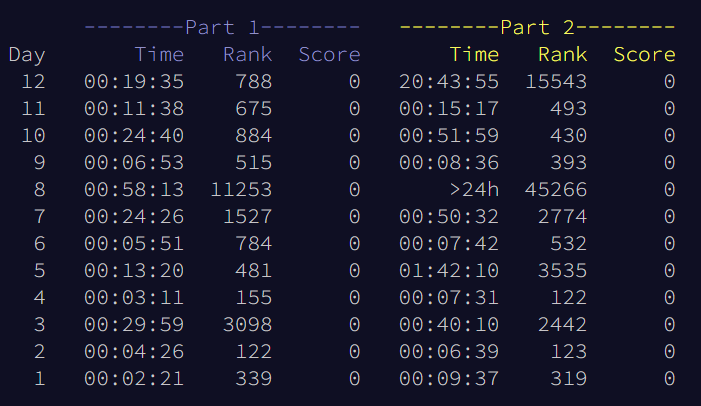
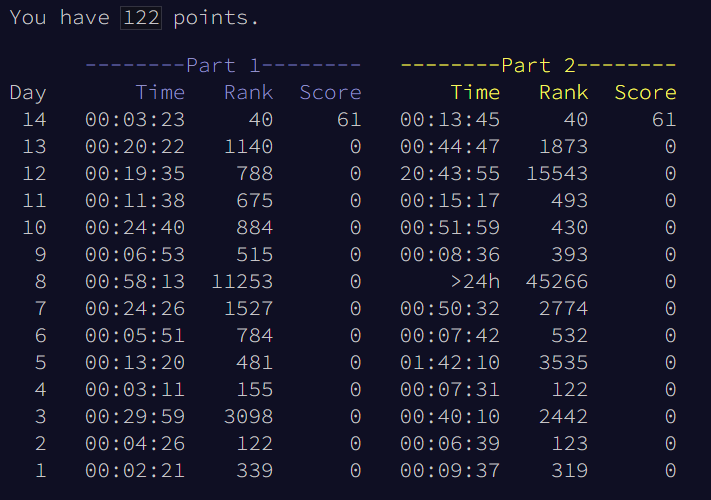
day14 TOP 50 on both parts!!!

diff --git a/Day14/day14b.py b/Day14/day14b.py
@@ -1,0 +1,88 @@
+import util
+
+def roll_north(grid):
+    done = False
+    while not done:
+        done = True
+        for y in range(1, len(grid)):
+            for x, tile in enumerate(grid[y]):
+                if tile == 'O' and grid[y - 1][x] == '.':
+                    grid[y - 1][x] = 'O'
+                    grid[y][x] = '.'
+                    done = False
+
+def roll_south(grid):
+    done = False
+    while not done:
+        done = True
+        for y in range(len(grid) - 2, -1, -1):
+            for x, tile in enumerate(grid[y]):
+                if tile == 'O' and grid[y + 1][x] == '.':
+                    grid[y + 1][x] = 'O'
+                    grid[y][x] = '.'
+                    done = False
+
+def roll_west(grid):
+    done = False
+    while not done:
+        done = True
+        for row in grid:
+            for x, tile in enumerate(row[1:]):
+                if tile == 'O' and row[x + 1- 1] == '.':
+                    row[x + 1 - 1] = 'O'
+                    row[x + 1] = '.'
+                    done = False
+
+def roll_east(grid):
+    done = False
+    while not done:
+        done = True
+        for row in grid:
+            for x, tile in enumerate(row[:-1]):
+                if tile == 'O' and row[x + 1] == '.':
+                    row[x + 1] = 'O'
+                    row[x] = '.'
+                    done = False
+
+def cycle_grid(grid):
+    roll_north(grid)
+    roll_west(grid)
+    roll_south(grid)
+    roll_east(grid)
+
+def grid_to_str(grid):
+    return ''.join([''.join(row) for row in grid])
+
+def main():
+    with open("Day14/day14.txt") as f:
+        grid = [list(line.strip()) for line in f.readlines()]
+    util.print_grid(grid)
+
+    cache = {}
+
+    skip_val = 0
+    end_pt = 0
+    for i in range(0, 1000000000):
+        print(i)
+        cycle_grid(grid)
+
+        s = grid_to_str(grid)
+        if s in cache:
+            skip_val = i - cache[s]
+            end_pt = i
+            break
+        else:
+            cache[s] = i
+
+    for i in range(0, (1000000000-end_pt)%skip_val-1):
+        cycle_grid(grid)
+
+
+    answer = 0
+    for y, row in enumerate(grid):
+        weight = len(grid) - y
+        for tile in row:
+            if tile == 'O':
+                answer += weight
+
+    print(answer)

diff --git a/Day14/day14a.py b/Day14/day14a.py
@@ -1,0 +1,25 @@
+import util
+
+def main():
+    with open("Day14/day14.txt") as f:
+        grid = [list(line.strip()) for line in f.readlines()]
+    util.print_grid(grid)
+
+    done = False
+    while not done:
+        done = True
+        for y in range(1, len(grid)):
+            for x, tile in enumerate(grid[y]):
+                if tile == 'O' and grid[y-1][x] == '.':
+                    grid[y-1][x] = 'O'
+                    grid[y][x] = '.'
+                    done = False
+
+    answer = 0
+    for y, row in enumerate(grid):
+        weight = len(grid) - y
+        for tile in row:
+            if tile == 'O':
+                answer += weight
+
+    print(answer)

diff --git a/RUN_A.py b/RUN_A.py
@@ -1,3 +1,3 @@
-from Day13 import day13a as prog
-print('Running day 13 A')
+from Day14 import day14a as prog
+print('Running day 14 A')
 prog.main()

diff --git a/RUN_B.py b/RUN_B.py
@@ -1,3 +1,3 @@
-from Day13 import day13b as prog
-print('Running day 13 B')
+from Day14 import day14b as prog
+print('Running day 14 B')
 prog.main()

diff --git a/README.md b/README.md
@@ -25,5 +25,8 @@ Thoughts on Puzzles:
  - Day 9: Simple derivative puzzle, very fun
  - Day 10: Part 2 was an exceptional quality puzzle, I'm very proud of my winding direction based solution
  - Day 11: Fun, good prevention of bruteforce on part2
+ - Day 12: Cacheing made part2 1000x faster - good puzzle
+ - Day 13: I'm bad at reading, missed that the old mirror line might still be valid
+ - Day 14: TOP 50 both parts!! Super simple to write solution with cacheing and jump ahead on part 2
 
 Overall - `#TODO`
